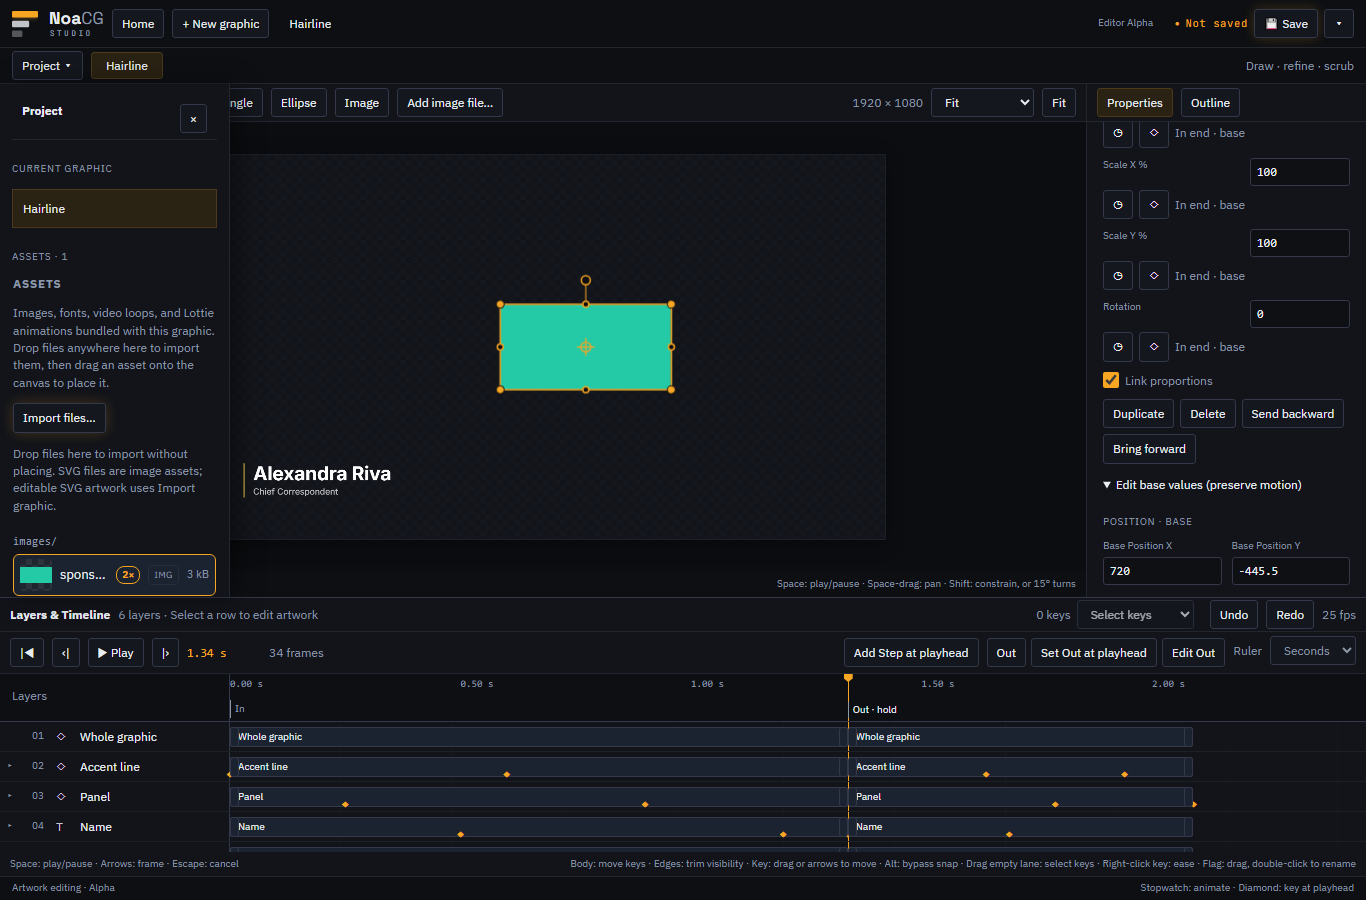
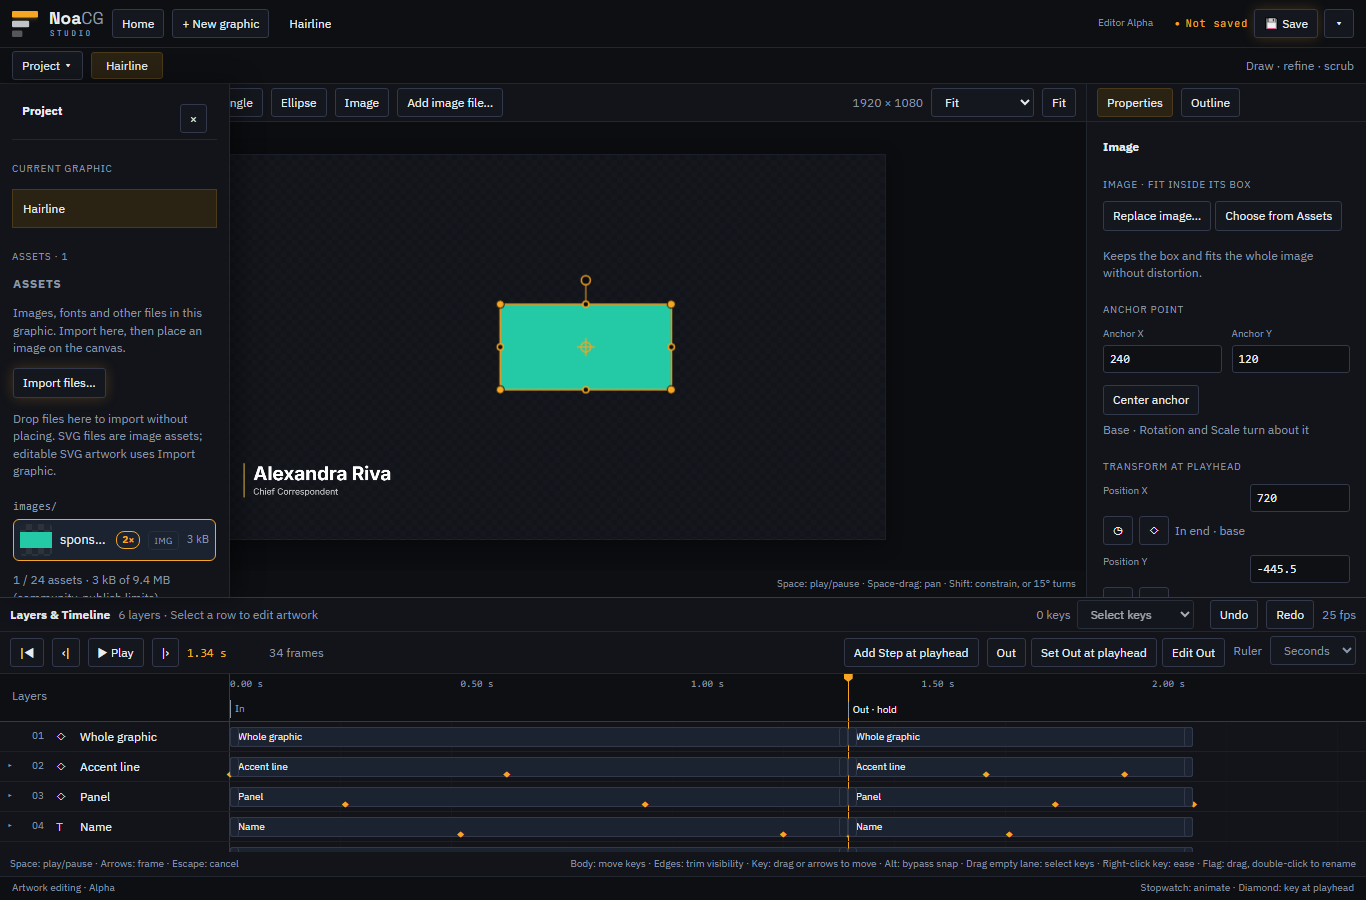
Record image import acceptance, guard mutations and catalog verification

diff --git a/e2e/editor-images.spec.ts b/e2e/editor-images.spec.ts
@@ -224,7 +224,7 @@ test('Escape, failed reads and stale revisions discard a whole file batch', asyn
       host.readFinished = false;
       const original = FileReader.prototype.readAsDataURL, decode = HTMLImageElement.prototype.decode;
       HTMLImageElement.prototype.decode = async function () { await decode.call(this); host.readFinished = true; HTMLImageElement.prototype.decode = decode; };
-      FileReader.prototype.readAsDataURL = function (blob) { const reader = this; FileReader.prototype.readAsDataURL = original; host.releaseRead = () => original.call(reader, blob); };
+      FileReader.prototype.readAsDataURL = function (blob) { FileReader.prototype.readAsDataURL = original; host.releaseRead = original.bind(this, blob); };
     });
     await page.getByTestId('image-add-input').setInputFiles(file);
     await expect.poll(() => page.evaluate(() => typeof (window as unknown as { releaseRead?: unknown }).releaseRead)).toBe('function');

diff --git a/docs/research/editor-r1-2b-3/catalog-battery.spec.ts b/docs/research/editor-r1-2b-3/catalog-battery.spec.ts
@@ -1,0 +1,11 @@
+import { test } from '@playwright/test';
+import { execFile } from 'node:child_process';
+import { promisify } from 'node:util';
+const execute = promisify(execFile);
+test('catalog rendered battery for the shared editor helpers', async () => {
+  test.setTimeout(120 * 60 * 1000);
+  for (const args of [['scripts/type-floor.mjs'], ['scripts/overflow-sweep.mjs', '--baseline'], ['scripts/field-coverage.mjs'], ['scripts/numerals.mjs'], ['scripts/factory.mjs']]) {
+    const result = await execute(process.execPath, args, { cwd: process.cwd(), env: process.env, timeout: 60 * 60 * 1000, maxBuffer: 20 * 1024 * 1024 });
+    console.log(result.stdout); if (result.stderr) console.log(result.stderr);
+  }
+});

diff --git a/docs/research/editor-r1-2b-3/catalog.config.ts b/docs/research/editor-r1-2b-3/catalog.config.ts
@@ -1,0 +1,5 @@
+import { defineConfig } from '@playwright/test';
+import base from '../../../playwright.config';
+import { resolve } from 'node:path';
+// Playwright owns the dev server for the entire battery and tears it down afterwards.
+export default defineConfig({ ...base, globalSetup: resolve('e2e/_offline-guard.ts'), webServer: { ...base.webServer, cwd: process.cwd() }, testDir: '.', testMatch: 'catalog-battery.spec.ts', workers: 1 });

diff --git a/docs/EDITOR_PLAN.md b/docs/EDITOR_PLAN.md
@@ -138,7 +138,7 @@ Only R1 replaces the default editor after owner acceptance; R2/R3 extend it. No 
 | R1.1c Out and parity | Set Out, reverse/manual/empty exit, indefinite hold, early interrupt from live pose; save/reopen, simulator and exported/production parity. B13 core. |
 | R1.1d Fidelity and trim | Nested Illustrator/catalog fixtures, stable IDs on first SVG edit, span trimming, two first-time users on the basic journey; B01-B05/B11/B13 applicable portions. |
 | R1.2a Animation | Shared Bezier/named-ease evaluator gate; exact splits, full transforms, marquee/modifier multi-key selection and dropdown/context easing including Bounce/Overshoot/Hold; Step/Next/cross-cue editing. B03/B05-B07/B13. The evaluator, exact split and exact reversal gate (G01) is engineering-verified ([receipt](research/editor-g01/README.md)). R1.2a.1, Set Out across the last In key, is engineering-verified ([receipt](research/editor-r1-2a-1/README.md)). R1.2a.2, the key-side ease menu, Hold and multi-key selection, is engineering-verified ([receipt](research/editor-r1-2a-2/README.md)). Owner decision 2026-09-29: Step/Next and cross-cue editing under the 2026-09-29 Out contract is split into R1.2a.3, Out from any step (the runtime and the editor's Out preview); R1.2a.4, step authoring (Add Step at the playhead, strict flag drags, rename and delete, and G02 editing the departing side at a flag); and R1.2a.5, cross-cue key moves and Set Out crossing from a Next cue. R1.2a.3, Out from any step, is engineering-verified ([receipt](research/editor-r1-2a-3/README.md)). R1.2a.4, step authoring (Add Step at the playhead, inline rename, delete, strict Step and Out flag drags, G02, and the owner's 2026-09-30 one-key Out hold), is engineering-verified ([receipt](research/editor-r1-2a-4/README.md)) and filed for an owner look; R1.2a.5, cross-cue key and bar moves and Set Out crossing from a Next cue under the owner's 2026-09-30 decision that the exit belongs to the Out flag, is engineering-verified ([receipt](research/editor-r1-2a-5/README.md)) and filed for an owner look. R1.2a.6, full transforms (the catalog's yPercent rows, scale panels and layers animated under another selector naming them now key, move and trim; the D03 adapter also keys xPercent and autoAlpha, bars move and trim on every channel but autoAlpha's, and only what cannot be written exactly refuses), is engineering-verified ([receipt](research/editor-r1-2a-6/README.md)). |
-| R1.2b Everyday tools and grouping | E05-E07/B04: typography/fit, file/drop import, images/assets, bounded Pen, full canvas tools, duplicate/delete/reorder/align/distribute/group movement; folders/bins, group transform/parent bar/local ruler. Reusable instances follow in P-COMP after R1.5. Split 2026-10-01 into bounded phases, in this order: R1.2b.1, canvas transform tools (the rotation handle, edge scale handles and the anchor point: numeric X/Y, Center anchor and the canvas anchor tool; B03/E04; [spec](research/editor-r1-2b-1/README.md)); R1.2b.2, typography and fit (E05/B04; [spec](research/editor-r1-2b-2/README.md); owner decisions 2026-10-02: weight, alignment, line and letter spacing and Long text on created and imported text, and on a text box the side handles resize while the corners scale); R1.2b.3, images, assets and file/drop import (E06/B04); R1.2b.4, the bounded Pen (E06); R1.2b.5, align and distribute with keyboard nudge and resize (E07/E17); R1.2b.6, groups: group movement and transform, parent bar and local ruler (E07/B02); R1.2b.7, folders and bins (B02). Owner decision 2026-10-01: the anchor is a static base value in R1.2b.1; its stopwatch and keys follow in a later R1.2 phase. Owner answer 2026-10-01: typing, Center anchor and the Anchor tool move only the pivot, never Position. R1.2b.1, canvas transform tools, is engineering-verified ([receipt](research/editor-r1-2b-1/README.md)). |
+| R1.2b Everyday tools and grouping | E05-E07/B04: typography/fit, file/drop import, images/assets, bounded Pen, full canvas tools, duplicate/delete/reorder/align/distribute/group movement; folders/bins, group transform/parent bar/local ruler. Reusable instances follow in P-COMP after R1.5. Split 2026-10-01 into bounded phases, in this order: R1.2b.1, canvas transform tools (the rotation handle, edge scale handles and the anchor point: numeric X/Y, Center anchor and the canvas anchor tool; B03/E04; [spec](research/editor-r1-2b-1/README.md)); R1.2b.2, typography and fit (E05/B04; [spec](research/editor-r1-2b-2/README.md); owner decisions 2026-10-02: weight, alignment, line and letter spacing and Long text on created and imported text, and on a text box the side handles resize while the corners scale); R1.2b.3, images, assets and file/drop import (E06/B04; [spec and receipt](research/editor-r1-2b-3/README.md)); R1.2b.4, the bounded Pen (E06); R1.2b.5, align and distribute with keyboard nudge and resize (E07/E17); R1.2b.6, groups: group movement and transform, parent bar and local ruler (E07/B02); R1.2b.7, folders and bins (B02). Owner decision 2026-10-01: the anchor is a static base value in R1.2b.1; its stopwatch and keys follow in a later R1.2 phase. Owner answer 2026-10-01: typing, Center anchor and the Anchor tool move only the pivot, never Position. R1.2b.1, canvas transform tools, is engineering-verified ([receipt](research/editor-r1-2b-1/README.md)). |
 | R1.2c Loops | Local loops, interruption/replay, legacy behavior and output parity. B07/B13/B14 local-loop portion. |
 | R1.3a/b AI and source round-trip | a: grounded help/context; b: reviewed edits through shared semantic commands, CLI round-trip, free tier/BYOK and model/concurrency tests. B17/B18. Optional P-WEBMCP adapter follows b; [inspection, scope and B21](research/editor-webmcp-commands-2026-09-19.md). |
 | R1.4a-d Projects, brands and rundown | a: durable multi-graphic projects/drafts; b: gallery/starters/brands; c: shared Home/editor bulk save/install and playout availability; d: recovery/rehearsal. B08-B10/B19. Parallel from R1.1c registry, independent of R1.2/R1.3. |

diff --git a/docs/research/editor-r1-2b-3/README.md b/docs/research/editor-r1-2b-3/README.md
@@ -80,6 +80,8 @@ logo have zero replacement controls. Each external file drop leaves assets
 unchanged. The corrected template-search acceptance test fails on the missing
 Image tool after reaching Hairline's new editor through the real Finish door.
 Raw output: [baseline.log](baseline.log), [written-first.log](written-first.log).
+The [written-first spec](written-first.spec.ts.txt) preserves the exact corrected
+acceptance file run against that snapshot.
 An independent snapshot holds application source at unmodified main throughout.
 
 The owner's drop decision above is implemented. The initial complete acceptance
@@ -89,9 +91,9 @@ single-file picker sends embedded bytes; SPX and OGraf folder packages use paths
 j-3081 passed 15 checks (46.4 s), adding the real template-search Hairline task,
 SVG, font and Lottie resource import and cancellation during existing-asset decode.
 
-Guard mutations j-3080 and j-3083 killed 31/31 mutants. The unmodified controls
+Guard mutations j-3080, j-3083 and j-3086 killed 33/33 mutants. The unmodified controls
 passed first. Each mutation runs alone through the queue, waits two seconds after
-each source write, and restores its source before the next. Both jobs reported
+each source write, and restores its source before the next. All three jobs reported
 all mutated sources restored byte-for-byte. Reproduce with
 `npm run queue -- "node docs/research/editor-r1-2b-3/mutations.mjs" --cost 0.5 --cap 30`.
 j-3082 matched zero cases because Windows quoting truncated its command; it is
@@ -102,5 +104,42 @@ new image's arriving visibility span. This keeps it visible at the hold while
 preserving the existing motion data and its millisecond precision. Image bindings
 carry the chosen extension and asset folder, including SVG files.
 
-Final regression, affected-suite, build and landing evidence follows below once
-those checks complete. Physical host and owner judgment are not claimed.
+## Integration verification and review
+
+- Reconciled current `origin/main` `5f55b3297` without conflicts. The integration
+  planner correctly uses the fork `70214bb06` and covers both sides.
+- j-3084: the requested editor regressions, anim-engine and inspector, plus all
+  16 image checks, in one job with E2E_WORKERS=3: 243 passed, 20 existing skips,
+  5.7 minutes. No new skip or quarantine was introduced.
+- j-3085: `set E2E_WORKERS=3&& npm run test:e2e:affected`: 49 specs, 526 passed,
+  239 existing skips (13.2 minutes); the catalog gate also passed all 35 checks
+  (4.9 minutes). The overall verdict is passed.
+- `node --test scripts/editor-images.test.mjs`: five pure-helper checks passed.
+  Catalog emit: all 528 variants match the source baseline. TypeScript and the
+  focused eslint review passed.
+- Real UI: template search to Hairline, created-image movement, portrait replacement
+  and undo passed with no page errors. Desktop and laptop captures are
+  [catalog-created-image.png](catalog-created-image.png) and
+  [laptop-assets.png](laptop-assets.png). Their placement, centered anchor, selection,
+  contrast and panel spacing were inspected. The laptop retains the existing
+  closable Project overlay.
+- Review inline: fixed stale operator-image samples on replacement/rename, the
+  imported-slot PNG extension when choosing SVG, and an ID lookup missed by the
+  code-driven-source refusal. Simplify inline: reused the existing source insertion
+  seam and slot writers, shared validated reads, and removed the retired asset-list
+  CSS. No source model or export-target format changed.
+
+- j-3089: the remaining full rendered catalog battery passed (11.7 minutes):
+  type floor (526 variants), overflow against baseline (528 variants), field
+  coverage (526 variants), numerals and factory. Reproduce through the owned-server
+  runner: `npm run queue -- "npx playwright test --config docs/research/editor-r1-2b-3/catalog.config.ts" --cost 0.5 --cap 120`.
+  j-3087 was refused before execution because the bare scripts needed a manual
+  server. j-3088 failed during setup on a relative globalSetup path; neither
+  measured the app. The corrected runner owns and tears down its dev server.
+
+Historical R1.1b/c/d captures and reports rewritten by integration checks were
+restored before build and commit. The final build, landing and deployed-version
+verdicts belong to this branch's pull request and session completion receipt.
+Physical playout hosts, phones and owner judgment are not claimed. The
+[desktop review](../../acceptance/owner-queue/2026-10-03-editor-images.md) is
+asynchronous product feedback; full B04 remains open.

diff --git a/docs/acceptance/owner-queue/2026-10-03-editor-images.md b/docs/acceptance/owner-queue/2026-10-03-editor-images.md
@@ -1,0 +1,35 @@
+---
+kind: desktop
+date: 2026-10-03
+because: taste
+serves: now
+answered: false
+---
+# Add a sponsor image and replace a logo in the editor
+
+After `codex/editor-r1-2b-3-images` deploys, open
+[/app](https://noacg.studio/app). Choose **+ New graphic**, **Start from a template**,
+search **Hairline**, choose it, then **Skip to finish** and **Edit this graphic**.
+
+1. Click **Image**, then **Import files…**. Pick a sponsor image. Select its row and
+   click **Place image**. It starts centered with its anchor in the middle.
+2. Move it on the canvas. Select its Image layer in Layers, then use
+   **Replace image…** in Properties to pick a tall image. The box stays the same
+   and the whole image fits inside it. Undo, then redo.
+3. Drop another image onto the canvas, including over the first image. Each drop
+   makes a new layer centered at the pointer, capped to a quarter of the frame.
+4. In Assets, select a file and rename it using the pencil beside its name in
+   Information. A used file refuses removal; an unused one can be removed. Undo.
+5. Save, return Home and reopen. Export to your usual target and use its bundled
+   operator picker to replace the image. CasparCG's single-file picker embeds the
+   image bytes; SPX and OGraf packages contain the image files.
+
+Do Image, Assets and explicit replacement read clearly as separate actions?
+Does the initial dropped size feel right, and is fitting the whole replacement
+inside its box useful for your logos? These are desktop product judgments.
+
+The [engineering receipt](../../research/editor-r1-2b-3/README.md) records the
+template-search task, created-image movement/replacement/undo, imported artwork,
+save/reopen, all three exported runtimes and the guard mutations. Engineering
+verification does not claim physical playout-host or owner acceptance. Pen,
+alignment, grouping and bins remain later bounded phases.

diff --git a/docs/handoffs/2026-10-03-editor-r1-2b-3.md b/docs/handoffs/2026-10-03-editor-r1-2b-3.md
@@ -1,0 +1,30 @@
+# Continue after images, assets and file/drop import
+
+R1.2b.3 lives on `codex/editor-r1-2b-3-images`, begun at fetched `origin/main`
+`70214bb06` and reconciled with `5f55b3297`. The
+[spec and receipt](../research/editor-r1-2b-3/README.md) holds the baseline,
+owner decision, browser checks and mutation evidence. Verify its landing and
+deployed revision before starting fresh from current main.
+
+Image opens the reused Assets panel. Import stores resources without placing;
+Place image, direct file choice, OS canvas drop and asset drag create a source
+image, operator file field and timeline bar through one registry transaction.
+Replacement preserves the box with contain or SVG meet. Rename carries source
+references, defaults and live image samples; used removal refuses. Save/reopen
+and SPX, CasparCG and OGraf execution are covered.
+
+Owner decisions: drops center at the pointer, preserve aspect ratio, cap natural
+dimensions to a quarter of the frame and always add a new layer. Replacement is
+explicit. A new shape's anchor starts at its center. SVG imported as an asset
+stays an image; editable SVG artwork still uses Import graphic.
+
+The next bounded phase is R1.2b.4, the Pen, under E06/B04. Read
+`docs/EDITOR_PLAN.md`, the acceptance register and `docs/EDITOR_REBUILD_PLAN.md`
+before specifying it. Reproduce on unmodified main, specify open/closed paths
+and supported curve handles, ask only unsettled UX decisions, write checks first
+and verify cancel/undo/source/export. Do not absorb align/distribute, grouping,
+bins, loops or canvas typing into that slice.
+
+The [desktop item](../acceptance/owner-queue/2026-10-03-editor-images.md) asks for
+product judgment after deployment. It is asynchronous feedback, not a landing
+gate. Full B04 and physical receiving-host acceptance remain open.

diff --git a/docs/research/editor-acceptance-register-2026-09-17.md b/docs/research/editor-acceptance-register-2026-09-17.md
@@ -429,6 +429,21 @@ E05 and B04 gain scoped engineering evidence; italic, case, shadow, outline, can
 physical-device and receiving-host acceptance remain open. No whole row is closed and the default
 editor is unchanged.
 
+## R1.2b.3 scoped image-and-assets receipt, 2026-10-03
+
+The [bounded spec and verification](editor-r1-2b-3/README.md) cover toolbar/file/drop
+image creation, aspect-preserving replacement of created images, catalog logos and
+imported SVG/raster image elements, and the reused Assets panel's import, rename
+and safe removal. Source, fields, live image samples and undo stay coherent;
+save/reopen and SPX, CasparCG and OGraf packages execute their image bindings.
+The owner's drop decision centers a new layer at the pointer, caps it to a quarter
+of the frame and always adds a layer. New anchors start centered.
+
+E06/B04 gain only this bounded engineering evidence. Pen, alignment/distribution,
+grouping, bins, canvas typing, owner workflow and physical receiving-host acceptance
+remain open. No whole row is closed. The desktop product-judgment item is
+[Add a sponsor image and replace a logo](../acceptance/owner-queue/2026-10-03-editor-images.md).
+
 ## Optional P-GPU evidence
 
 B20 belongs only to P-GPU.0/1 after working R1/R2.2/R3.1; it does not block core editor adoption. See the [WebGPU/vgpu assessment](editor-webgpu-vgpu-2026-09-19.md) for exact fixtures, sources and host matrix. All product evidence is unverified: pinned licence/bundle proof; actual browser/OBS/CasparCG alpha and output; deterministic time/seed/data replay and GPU completion; unavailable/device-loss fallbacks; frame pacing/memory/concurrent-output soak. Research is complete by classification, not a GPU compatibility pass. vgpu is a candidate, not an installed dependency.
